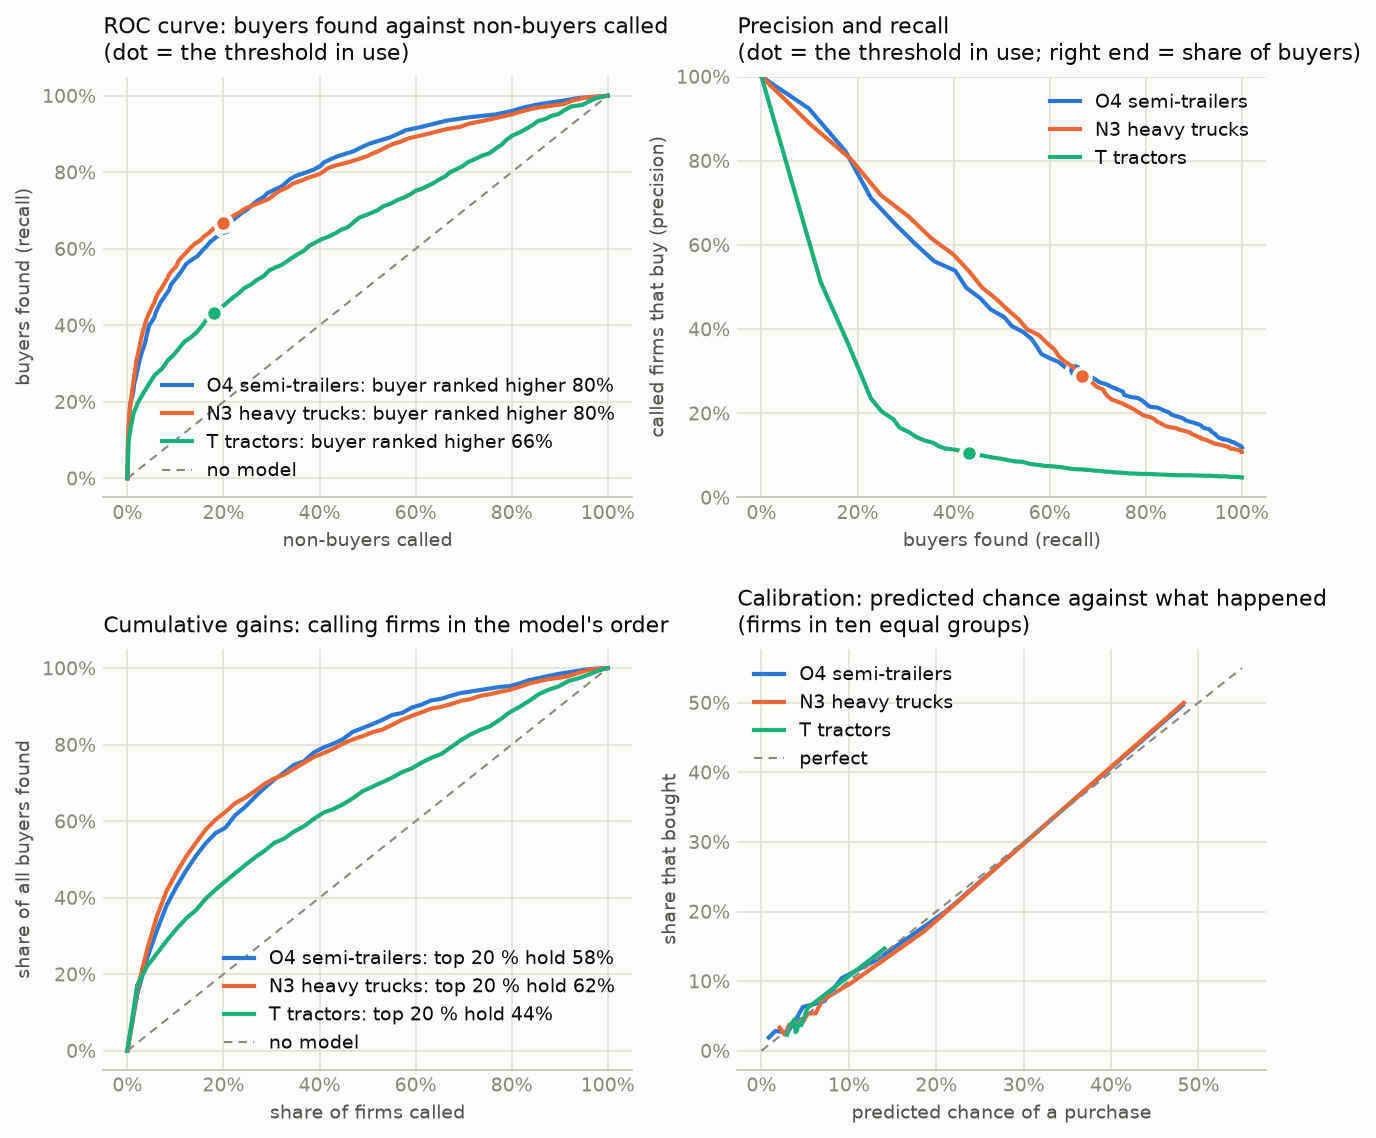
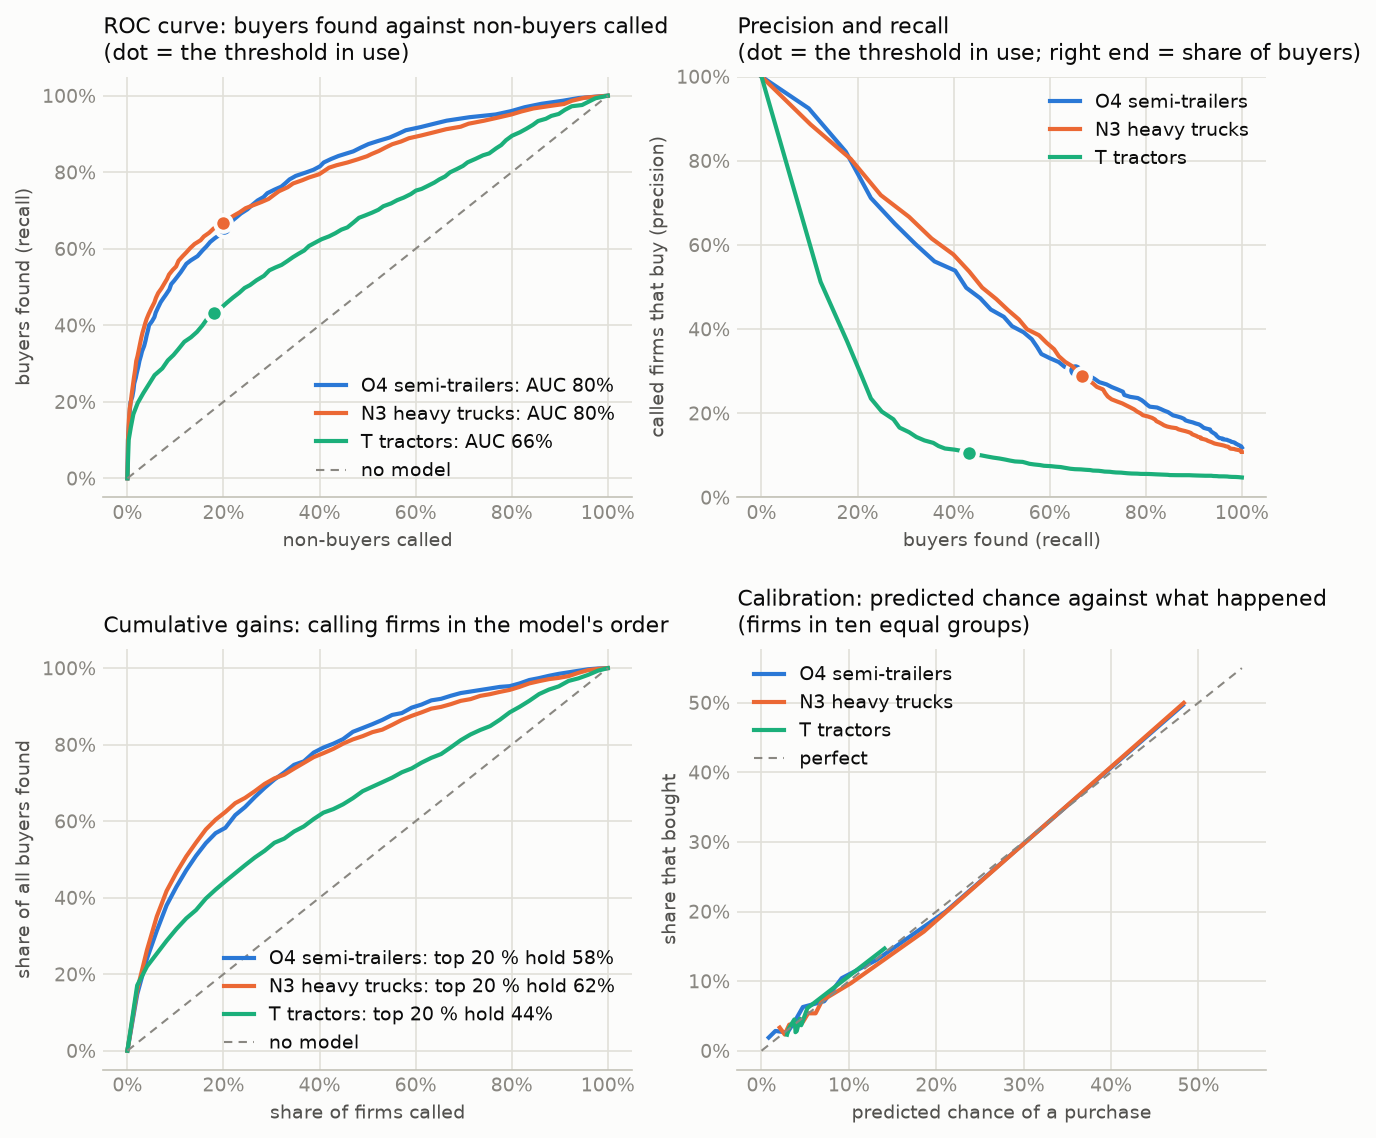
Name the ranking score ROC AUC in charts and tables

Changed region(s): [[0.125, 0.3076, 0.4062, 0.4306]]

diff --git a/tools/plot_report.py b/tools/plot_report.py
@@ -60,7 +60,7 @@ def who_curves(reports: list[dict], path: Path) -> None:
             c["roc"]["recall"],
             color=colour,
             linewidth=2,
-            label=f"{r['name']}: buyer ranked higher {w['roc_auc']:.0%}",
+            label=f"{r['name']}: AUC {w['roc_auc']:.0%}",
         )
         roc.plot(
             t["false_positive_rate"],
@@ -141,7 +141,7 @@ def who_ranking(reports: list[dict], path: Path) -> None:
         low, high = r["who"]["roc_auc_ci95"]
         bar_x = x[-1] + 0.12 * (i + 1)  # beside the last point, so overlapping intervals stay readable
         ax.plot([bar_x, bar_x], [low, high], color=colour, linewidth=2.5, solid_capstyle="round")
-        ends.append([auc[-1], f"{r['name']}  {auc[-1]:.0%}"])
+        ends.append([auc[-1], f"{r['name']}  AUC {auc[-1]:.0%}"])
     # Spread the end labels so series that finish at the same value do not collide.
     ends.sort(key=lambda e: e[0])
     for k in range(1, len(ends)):
@@ -149,15 +149,15 @@ def who_ranking(reports: list[dict], path: Path) -> None:
     for y_label, text in ends:
         ax.text(x[-1] + 0.12 * (len(reports) + 1), y_label, text, va="center", fontsize=9, color=INK)
     ax.axhline(0.5, color=MUTED, linewidth=1, linestyle=(0, (4, 3)))
-    ax.text(x[0], 0.505, "random ranking", fontsize=8.5, color=MUTED, va="bottom")
+    ax.text(x[0], 0.505, "random ranking (AUC 50 %)", fontsize=8.5, color=MUTED, va="bottom")
     ax.set_xticks(x, years)
     ax.set_xlim(-0.3, len(years) - 1 + 2.1)
     ax.set_ylim(0.45, 0.9)
     ax.set_xlabel("test year (cutoff)", color=SECONDARY, fontsize=9)
-    ax.set_ylabel("buyer ranked above a non-buyer", color=SECONDARY, fontsize=9)
+    ax.set_ylabel("ROC AUC (buyer ranked above a non-buyer)", color=SECONDARY, fontsize=9)
     title(
         ax,
-        "Ranking in each test year, each a separate model fitted on earlier years\n"
+        "ROC AUC in each test year, each a separate model fitted on earlier years\n"
         "(bars beside the last year = its 95 % interval)",
     )
     legend(ax, loc="lower left", ncols=3)

diff --git a/docs/RESULTS.md b/docs/RESULTS.md
@@ -32,8 +32,9 @@ How to read the four charts:
 
 - **ROC curve** (top left): as the model calls more firms, the share of
   buyers it finds against the share of non-buyers it calls. The higher the
-  curve above the dashed line, the better the ranking. The legend gives how
-  often a buyer is ranked above a non-buyer.
+  curve above the dashed line, the better the ranking. The legend gives the
+  area under the curve (ROC AUC): how often a buyer is ranked above a
+  non-buyer.
 - **Precision and recall** (top right): the share of called firms that buy
   against the share of buyers found, for every possible threshold.
 - **Cumulative gains** (bottom left): the share of all buyers reached when
@@ -80,7 +81,7 @@ measure of whether the model holds from year to year.
 Trucks held at 78 to 80 %. Trailers rose from 75 % to 80 to 81 % in the last
 three years. Tractors moved between 64 % and 70 % with no trend.
 
-![Ranking in each of five test years, with the 95 % interval of the last one](figures/who_ranking.png)
+![ROC AUC in each of five test years, with the 95 % interval of the last one](figures/who_ranking.png)
 
 **The yes/no call.** Each cell is **precision / recall**:
 

diff --git a/README.md b/README.md
@@ -108,7 +108,7 @@ Trained on the cutoff 2023-09, threshold and calibration set on 2024-09, judged
 once on the cutoff 2025-09, whose following 12 months were used for nothing
 else.
 
-| Vehicle category | Firms | Bought within 12 months | Buyer ranked above a non-buyer (95 % interval) | Buyers in the top tenth of firms | Recall | Precision |
+| Vehicle category | Firms | Bought within 12 months | ROC AUC: buyer ranked above a non-buyer (95 % interval) | Buyers in the top tenth of firms | Recall | Precision |
 |---|---:|---:|---:|---:|---:|---:|
 | O4 semi-trailers | 8,440 | 11.8 % | 80 % (79 to 82 %) | 42 % | 65 % | 30 % |
 | N3 heavy trucks | 14,136 | 10.8 % | 80 % (79 to 81 %) | 46 % | 67 % | 29 % |

diff --git a/docs/FORWARD.md b/docs/FORWARD.md
@@ -71,7 +71,7 @@ The 12-month model scored every firm with an earlier purchase on 2026-09-01.
 The question is whether the firms it ranked high are the ones that bought in
 the next one or two months.
 
-How often a buyer was ranked above a non-buyer, with the 95 % range:
+ROC AUC, how often a buyer was ranked above a non-buyer, with the 95 % range:
 
 | Vehicle category | September only | Year earlier | September + October | Year earlier |
 |---|---:|---:|---:|---:|
